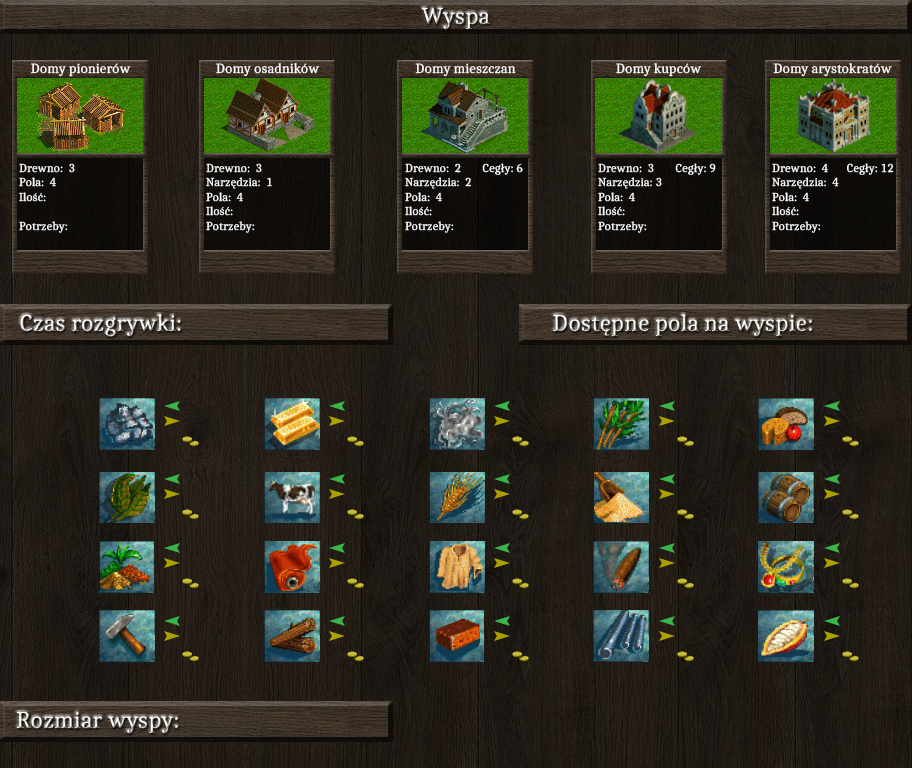
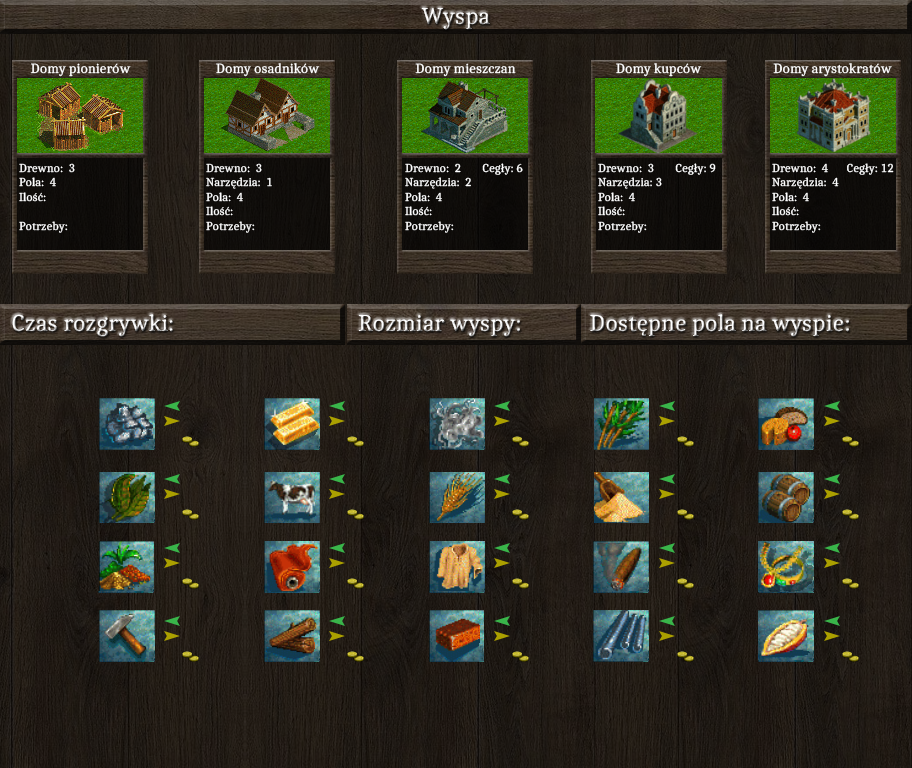
Drobna zmiana w układzie statystyk

Changed region(s): [[0.3684, 0.375, 0.9518, 0.4688], [0.0, 0.9062, 0.4298, 0.9688], [0.0, 0.4062, 0.2149, 0.4375]]

diff --git a/Kolonia/Final/STimer.cpp b/Kolonia/Final/STimer.cpp
@@ -116,6 +116,6 @@ void STimer::render()
 	if (!gTimeTextTexture.loadFromRenderedText(timeText.str().c_str(), textColor, gFont))
 		std::cout << "Nie mozna wyrenderowac czasu!" << std::endl;
 	else
-		gTimeTextTexture.render((350 - gTimeTextTexture.getWidth()), 310);
+		gTimeTextTexture.render((325 - gTimeTextTexture.getWidth()), 312);
 }
 STimer timer;

diff --git a/Kolonia/Final/sdl_consts.h b/Kolonia/Final/sdl_consts.h
@@ -34,7 +34,7 @@ const int ALLOW_BUILD_BUTTON_HEIGHT = 37;
 const int ALLOW_BUILD_BUTTON_WIDTH = 105;
 
 // Wspolrzedne przyciskow zakaz budowy
-const int A_B_X = 584, A_B_Y = 308;
+const int A_B_X = 400, A_B_Y = 700;
 
 // Wspolrzedne przyiskow build, destroy
 const int C_1 = 17,  C_2 = 204, C_3 = 402, C_4 = 596, C_5 = 770;
